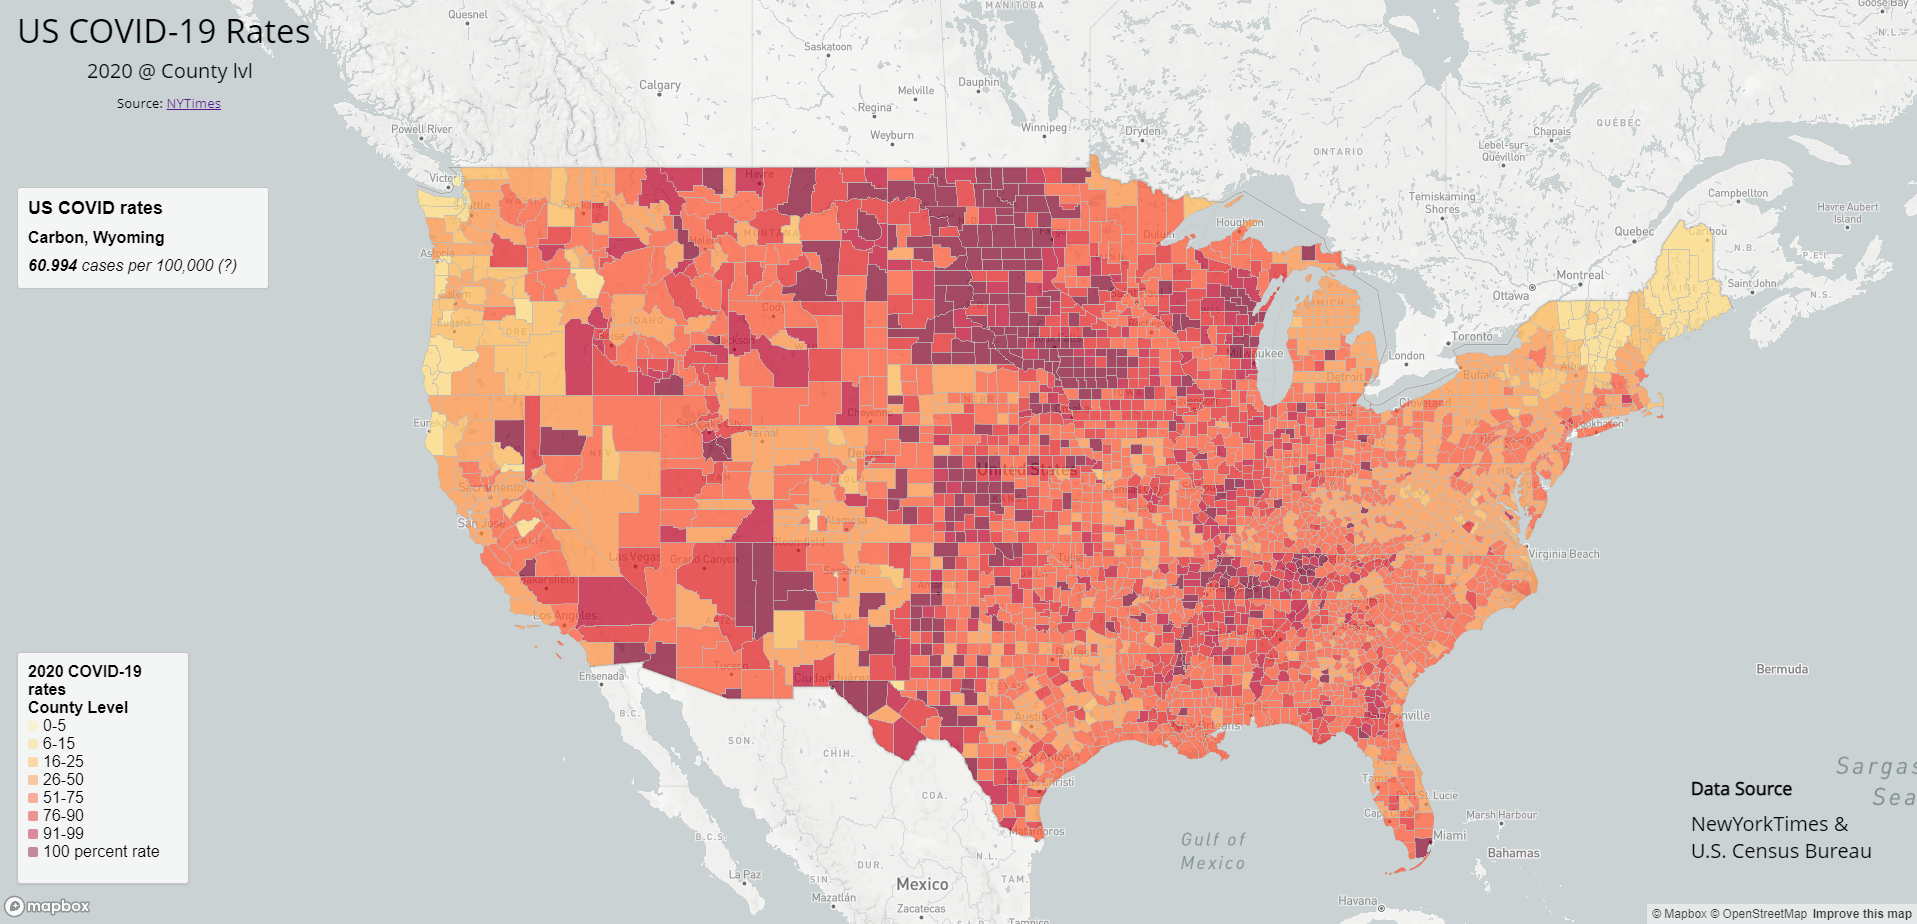
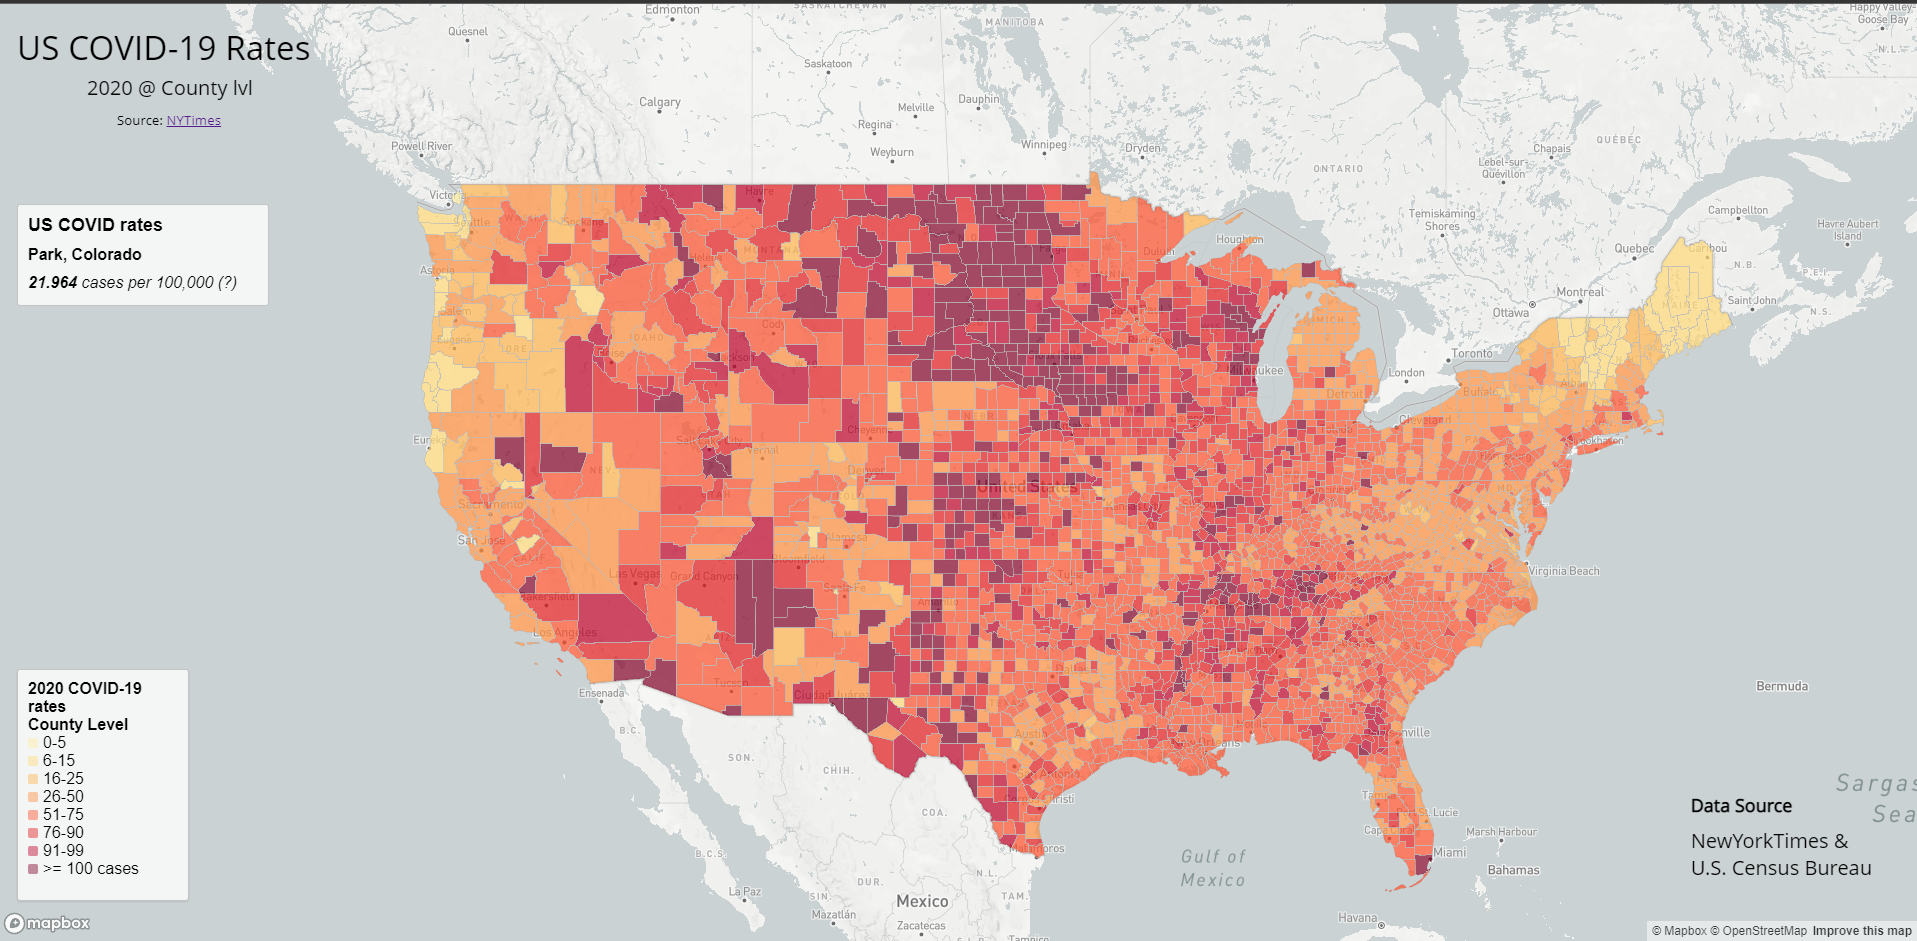
readme update

diff --git a/js/main1.js b/js/main1.js
@@ -63,7 +63,7 @@ map.on('load', () => {
         '51-75',
         '76-90',
         '91-99',
-        '100 percent rate'
+        '>= 100 cases'
     ];
     const colors = [
         '#FFEDA070',

diff --git a/README.md b/README.md
@@ -1,1 +1,22 @@
-# 458lab3
+# 458lab3: US COVID-19 2020 cases Counts and Rates (County Level)
+The purpose of this project is to visualize the spread of COVID-19 cases during 2020 within the US. <br>
+The first map provides a choropleth map where each US county is categorized by color based on the number of cases there are per 100,000 people (not specified, so assumed) where a more yellow tone being not that many and dark red as over 100 cases per 100,000 people. The second map provides a proportional symbol map where each circle represents a county and depending on the number of cases, the size increases/decreases, while also the hue of the color darkens. At the very last class of number of cases, the color turns into a bright orange. Both maps are interactive: first map allows for hover functionality, providing more info on the county and second map allows for on-click popups providing info per county.
+
+# Libraries Used
+* Mapbox GL JS
+
+# Data Sources
+* U.S. Census Bureau - county shapefile
+* 2018 ACS 5 year estimates - population data
+* The New York Times - cases
+
+## Map 1
+
+![map1](/imgs/rates.png)
+
+## Map 2
+
+![map1](/imgs/counts.png)
+
+# Acknowledgement
+The data has been processed by Steven Bao.
